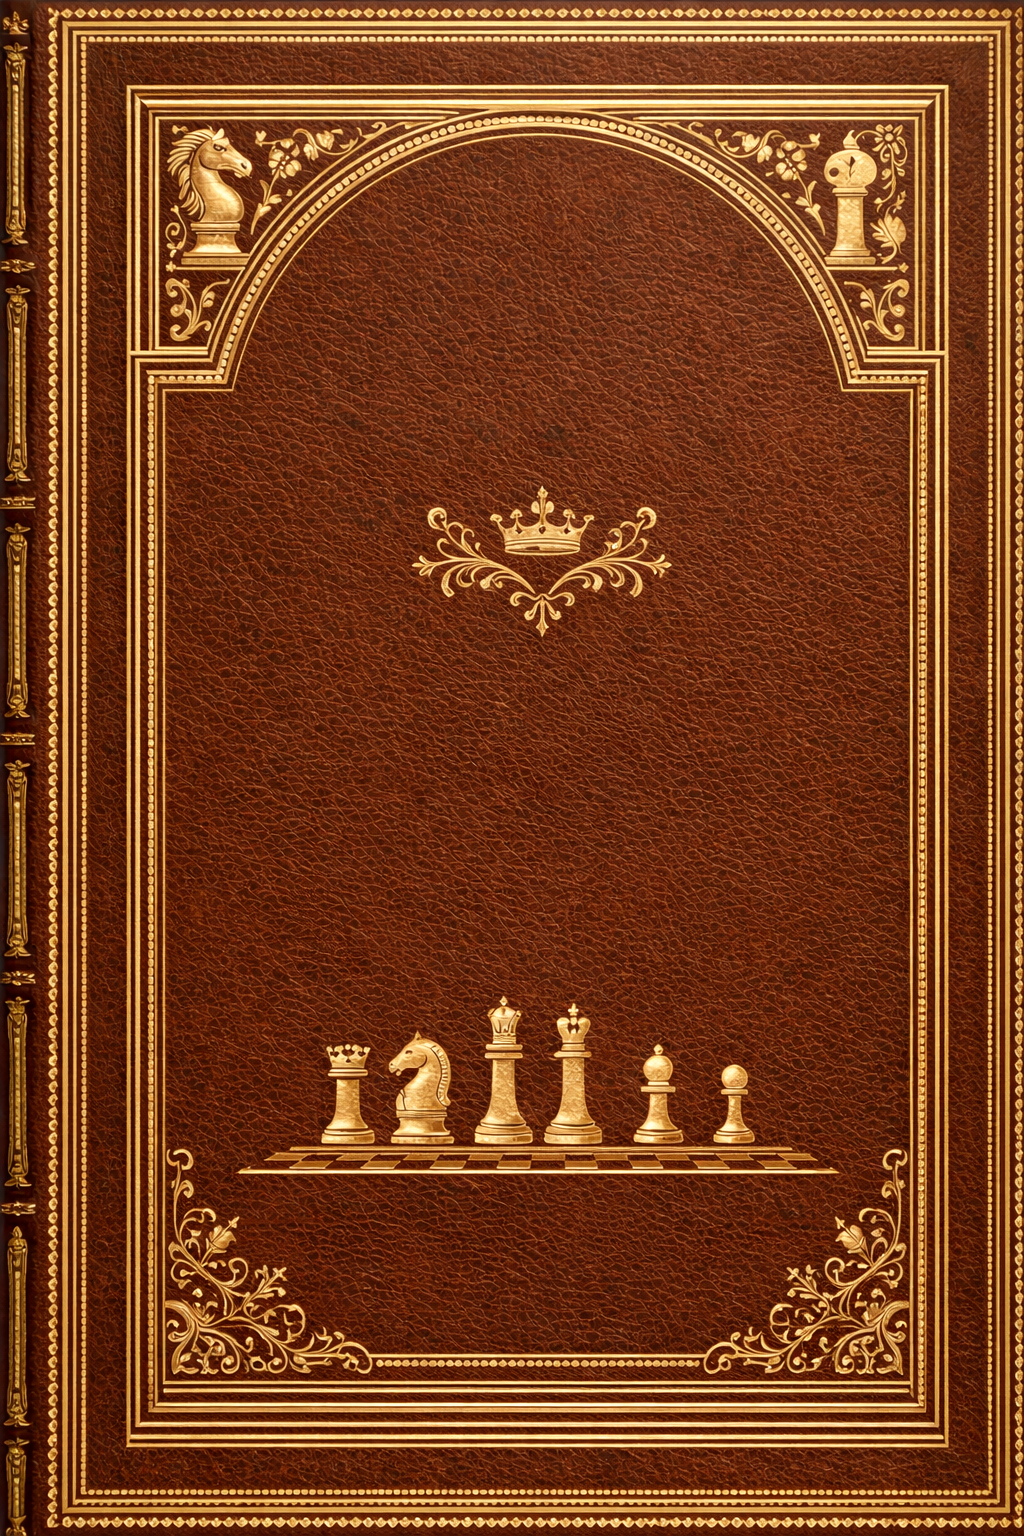
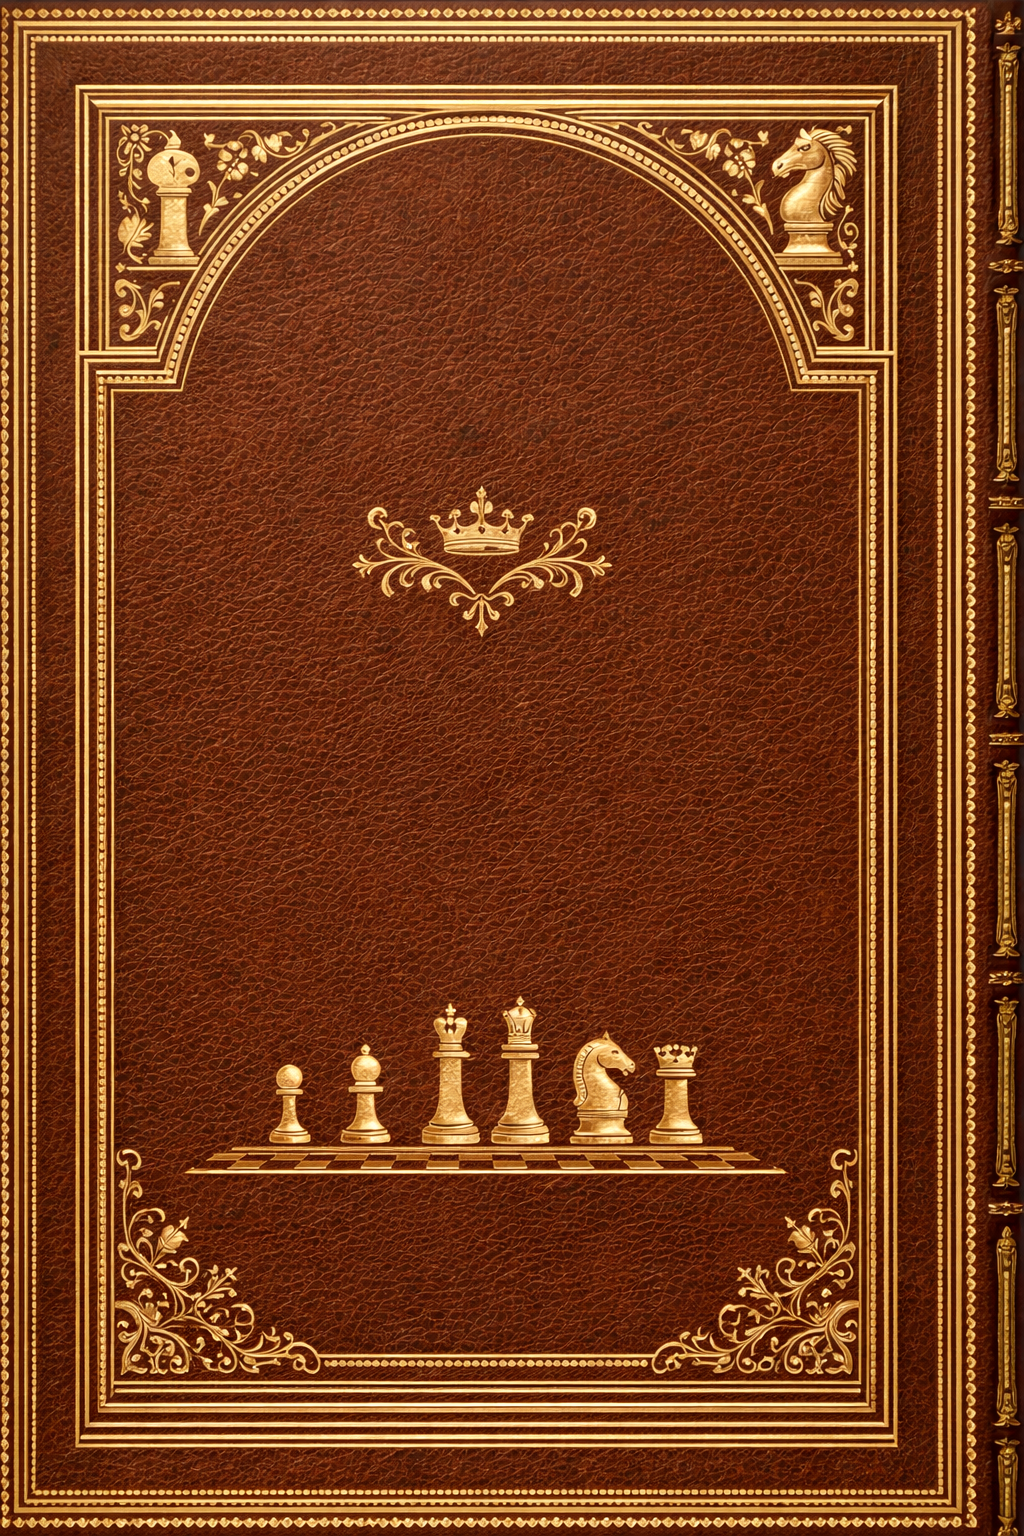
style: Melhorias no css

diff --git a/frontend/src/app/components/sheet/sheet.component.scss b/frontend/src/app/components/sheet/sheet.component.scss
@@ -4,13 +4,12 @@
 }
 
 @mixin page {
-	overflow: hidden;
-	width: calc(100% - 2%);
-	height: calc(100% - 4%);
+	overflow: hidden; // passar futuramente para o componente page
+	height: 96%;
+	width: 97%;
 	margin-top: 2%;
-	padding: 5%;
-	background-color: #fdfaf7;
-	border: solid 1px #c7bebc;
+	background-color: #fdfaf7; // passar futuramente para o componente page
+	border: solid 1px #c4c4c4;
 }
 
 @mixin sheet {
@@ -23,8 +22,6 @@
 }
 
 @mixin capaPage {
-	margin: 0;
-	border: none;
 	background-size: 100% 100%;
 	background-repeat: no-repeat;
 	@include tamanho();
@@ -70,7 +67,6 @@
 		background-image: inherit;
 		background-size: 100% 100%;
 		background-position: center;
-		transform: scaleX(-1);
 		@include tamanho;
 	}
 
@@ -97,7 +93,7 @@
 
 	.page {
 		box-shadow: inset -7px 0 30px -7px #00000066, -10px 10px 15px 0px #0000001f;
-		margin-left: 2%;
+		margin-left: auto;
 		@include page();
 	}
 	@include sheet();
@@ -105,12 +101,10 @@
 
 .frentePage {
 	transform-origin: left;
-	transform: rotateY(0deg);
 	pointer-events: all;
 
 	.page {
 		box-shadow: inset 7px 0 30px -7px #00000066, 10px 10px 15px 0px #0000001f;
-		margin-right: 2%;
 		@include page();
 	}
 	@include sheet();
@@ -128,10 +122,11 @@
 	}
 }
 
-.flipPage.first-page {
+/* SE QUISEREM LIVRO NO CENTRO
+.flipPage.firstPage {
 	transform: translateX(calc(50% / -2));
 }
 
-.flipPage.last-page {
+.flipPage.lastPage {
 	transform: translateX(calc(-50% / -2));
-}
+}*/

diff --git a/frontend/src/app/components/book/book.component.scss b/frontend/src/app/components/book/book.component.scss
@@ -16,21 +16,16 @@
 	margin: auto;
 	height: 90%;
 	aspect-ratio: 13 / 9;
-	top: 0;
-	bottom: 0;
-	left: 0;
-	right: 0;
+	inset: 0;
 }
 
 .blockClick {
 	position: absolute;
 	inset: 0;
-	z-index: 10000;
+	z-index: 100000;
 	pointer-events: all;
 	background: transparent;
 }
-
-
 
 /* ANIMAÇÕES */
 .pageAnimation {
